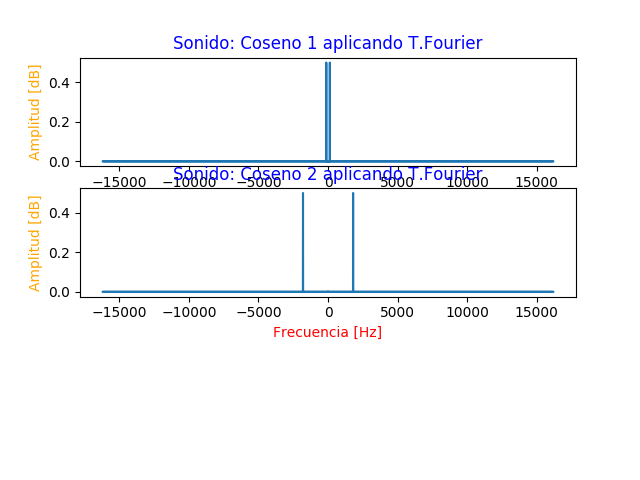
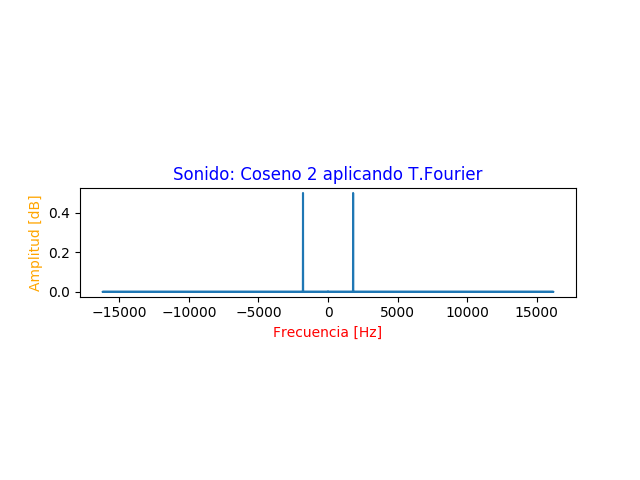
adiing changes

Changed region(s): [[0.1562, 0.0625, 0.875, 0.4062], [0.0312, 0.125, 0.125, 0.3438]]

diff --git a/Models/modulation.py b/Models/modulation.py
@@ -1,6 +1,7 @@
 
 
 from Models.graphic import Graphic
+from Models.audio import Audio
 import numpy as np
 from numpy import linspace, cos, interp
 import matplotlib.pyplot as plt
@@ -78,7 +79,10 @@ class Modulation:
         graphic = Graphic()
         dataCarrier = modulation.function3 * modulation.function2
         print(dataCarrier)
-        graphic.generateGraphics5(modulation.function1, modulation.freqSampling, modulation.function3,modulation.freqSampling, dataCarrier, modulation.time)
+        graphic.generateGraphics4(modulation.function1, modulation.function3, dataCarrier,modulation.time)
+        graphic.frequencyGraphic(dataCarrier,modulation.freqSampling,"demodulada",10000,8)
+        audio = Audio(modulation.freqSampling,)
+        #graphic.generateGraphics5(modulation.function1, modulation.freqSampling, modulation.function3,modulation.freqSampling, dataCarrier, modulation.time)
 
 
 

diff --git a/Models/graphic.py b/Models/graphic.py
@@ -61,7 +61,7 @@ class Graphic:
         # Funcion que retorna los resultados aplicando fourier y crea una matriz con el resultado
         fftFrequency = np.fft.fftfreq(sample_length, 1 / samplingRate)
         self.makeGraphic("Sonido: " + audioName + " aplicando T.Fourier", "Frecuencia [Hz]", fftFrequency, "Amplitud [dB]", abs(new_data),low_cutoff,order)
-        #plt.show()
+        plt.show()
         return new_data, fft(data)
 
     # /////////////////////////////////////////////////////////////////////////////////////////////////////////////////////////////////////////////////////////////////////////
